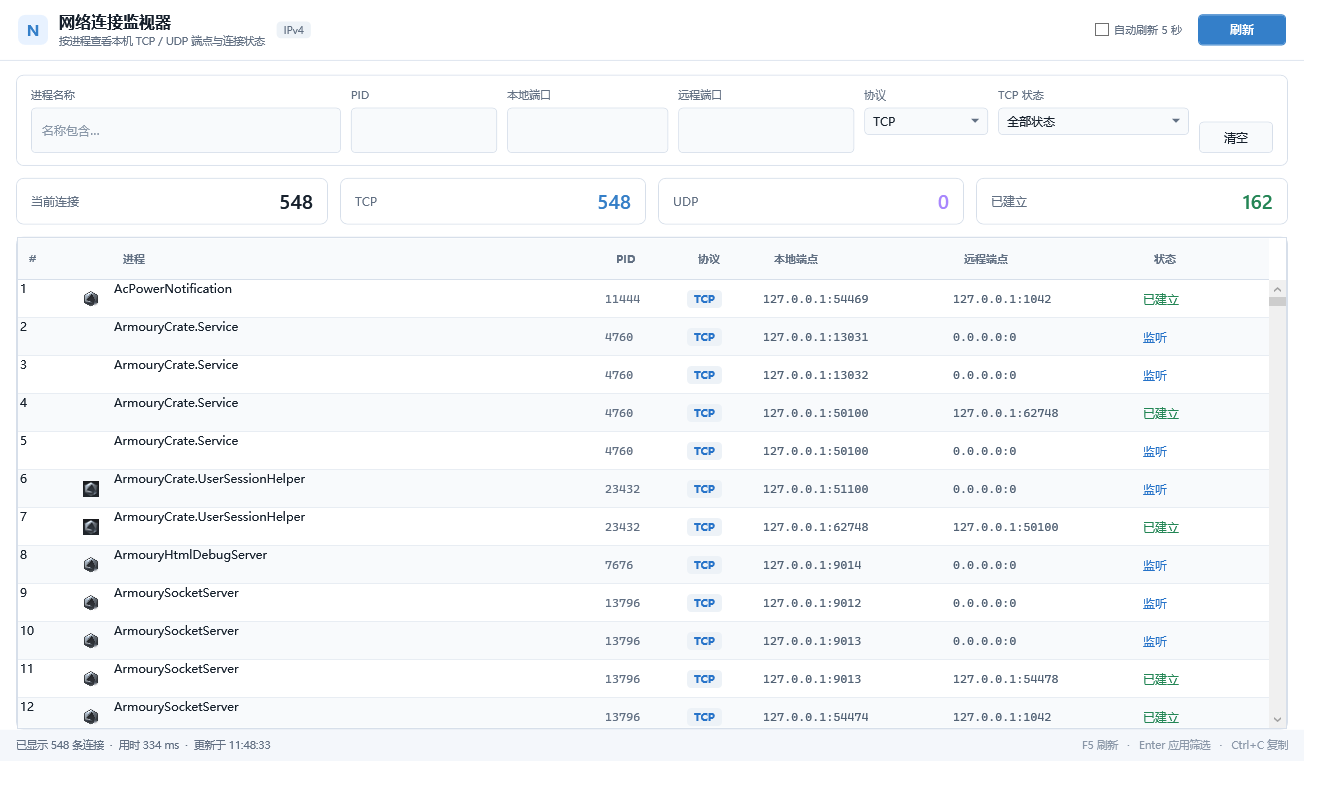
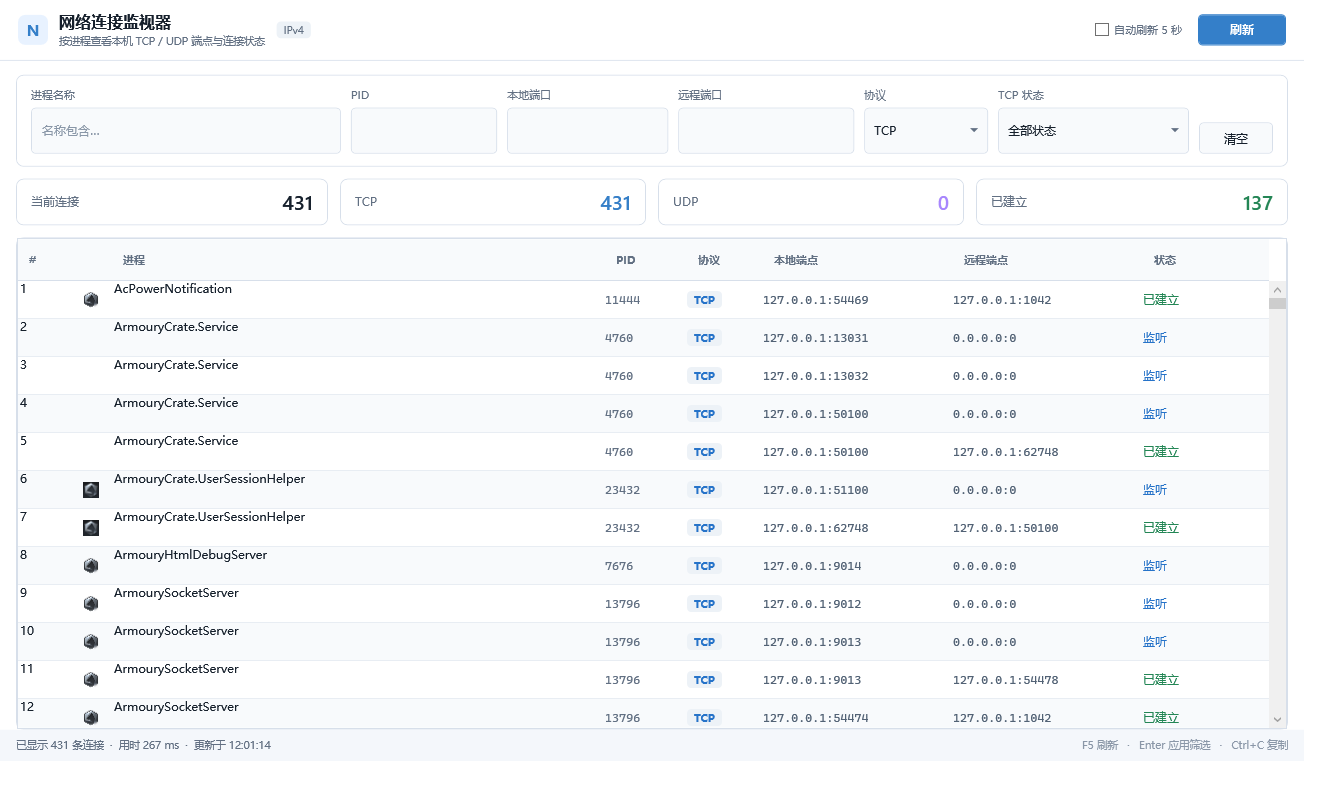
fix: align filter combo boxes

diff --git a/NetStatusSharp/Themes/Light.xaml b/NetStatusSharp/Themes/Light.xaml
@@ -66,6 +66,7 @@
         <Setter Property="CaretBrush" Value="{StaticResource Accent}" />
         <Setter Property="BorderBrush" Value="{StaticResource Border}" />
         <Setter Property="BorderThickness" Value="1" />
+        <Setter Property="Height" Value="46" />
         <Setter Property="Padding" Value="10,7" />
         <Setter Property="FontSize" Value="12" />
         <Setter Property="VerticalContentAlignment" Value="Center" />
@@ -111,6 +112,7 @@
         <Setter Property="Foreground" Value="{StaticResource Fg}" />
         <Setter Property="BorderBrush" Value="{StaticResource Border}" />
         <Setter Property="BorderThickness" Value="1" />
+        <Setter Property="Height" Value="46" />
         <Setter Property="Padding" Value="9,6" />
         <Setter Property="FontSize" Value="12" />
         <Setter Property="ItemContainerStyle" Value="{StaticResource ComboItem}" />
@@ -118,22 +120,36 @@
             <Setter.Value>
                 <ControlTemplate TargetType="ComboBox">
                     <Grid>
+                        <!-- 透明点击层必须在内容下方，否则默认 ToggleButton 模板会在 hover 时盖住选中文字。 -->
+                        <ToggleButton x:Name="DropDownToggle" Background="Transparent" BorderThickness="0"
+                                      Focusable="False" ClickMode="Press"
+                                      IsChecked="{Binding IsDropDownOpen, RelativeSource={RelativeSource TemplatedParent}, Mode=TwoWay}">
+                            <ToggleButton.Template>
+                                <ControlTemplate TargetType="ToggleButton">
+                                    <Border Background="Transparent" />
+                                </ControlTemplate>
+                            </ToggleButton.Template>
+                        </ToggleButton>
                         <Border x:Name="ComboBorder" Background="{TemplateBinding Background}"
                                 BorderBrush="{TemplateBinding BorderBrush}"
-                                BorderThickness="{TemplateBinding BorderThickness}" CornerRadius="4" />
-                        <Grid Margin="{TemplateBinding Padding}">
-                            <Grid.ColumnDefinitions>
-                                <ColumnDefinition Width="*" />
-                                <ColumnDefinition Width="18" />
-                            </Grid.ColumnDefinitions>
-                            <ContentPresenter VerticalAlignment="Center" Content="{TemplateBinding SelectionBoxItem}" />
-                            <Path Grid.Column="1" Width="8" Height="5" HorizontalAlignment="Right"
-                                  VerticalAlignment="Center" Fill="{StaticResource FgMuted}"
-                                  Data="M 0 0 L 4 4 L 8 0 Z" />
-                        </Grid>
-                        <ToggleButton Background="Transparent" BorderThickness="0" Focusable="False"
-                                      IsChecked="{Binding IsDropDownOpen, RelativeSource={RelativeSource TemplatedParent}}" />
-                        <Popup IsOpen="{TemplateBinding IsDropDownOpen}" Placement="Bottom"
+                                BorderThickness="{TemplateBinding BorderThickness}" CornerRadius="4"
+                                IsHitTestVisible="False">
+                            <Grid Margin="{TemplateBinding Padding}">
+                                <Grid.ColumnDefinitions>
+                                    <ColumnDefinition Width="*" />
+                                    <ColumnDefinition Width="18" />
+                                </Grid.ColumnDefinitions>
+                                <ContentPresenter VerticalAlignment="Center"
+                                                  Content="{TemplateBinding SelectionBoxItem}"
+                                                  ContentTemplate="{TemplateBinding SelectionBoxItemTemplate}"
+                                                  ContentTemplateSelector="{TemplateBinding ItemTemplateSelector}"
+                                                  IsHitTestVisible="False" />
+                                <Path Grid.Column="1" Width="8" Height="5" HorizontalAlignment="Right"
+                                      VerticalAlignment="Center" Fill="{StaticResource FgMuted}"
+                                      Data="M 0 0 L 4 4 L 8 0 Z" />
+                            </Grid>
+                        </Border>
+                        <Popup x:Name="PART_Popup" IsOpen="{TemplateBinding IsDropDownOpen}" Placement="Bottom"
                                AllowsTransparency="True" Focusable="False" PopupAnimation="Fade">
                             <Border Background="{StaticResource Bg2}" BorderBrush="{StaticResource Border}"
                                     BorderThickness="1" CornerRadius="4" MinWidth="{Binding ActualWidth, RelativeSource={RelativeSource TemplatedParent}}"
@@ -144,6 +160,9 @@
                     </Grid>
                     <ControlTemplate.Triggers>
                         <Trigger Property="IsKeyboardFocusWithin" Value="True">
+                            <Setter TargetName="ComboBorder" Property="BorderBrush" Value="{StaticResource Accent}" />
+                        </Trigger>
+                        <Trigger Property="IsMouseOver" Value="True">
                             <Setter TargetName="ComboBorder" Property="BorderBrush" Value="{StaticResource Accent}" />
                         </Trigger>
                         <Trigger Property="IsEnabled" Value="False">
